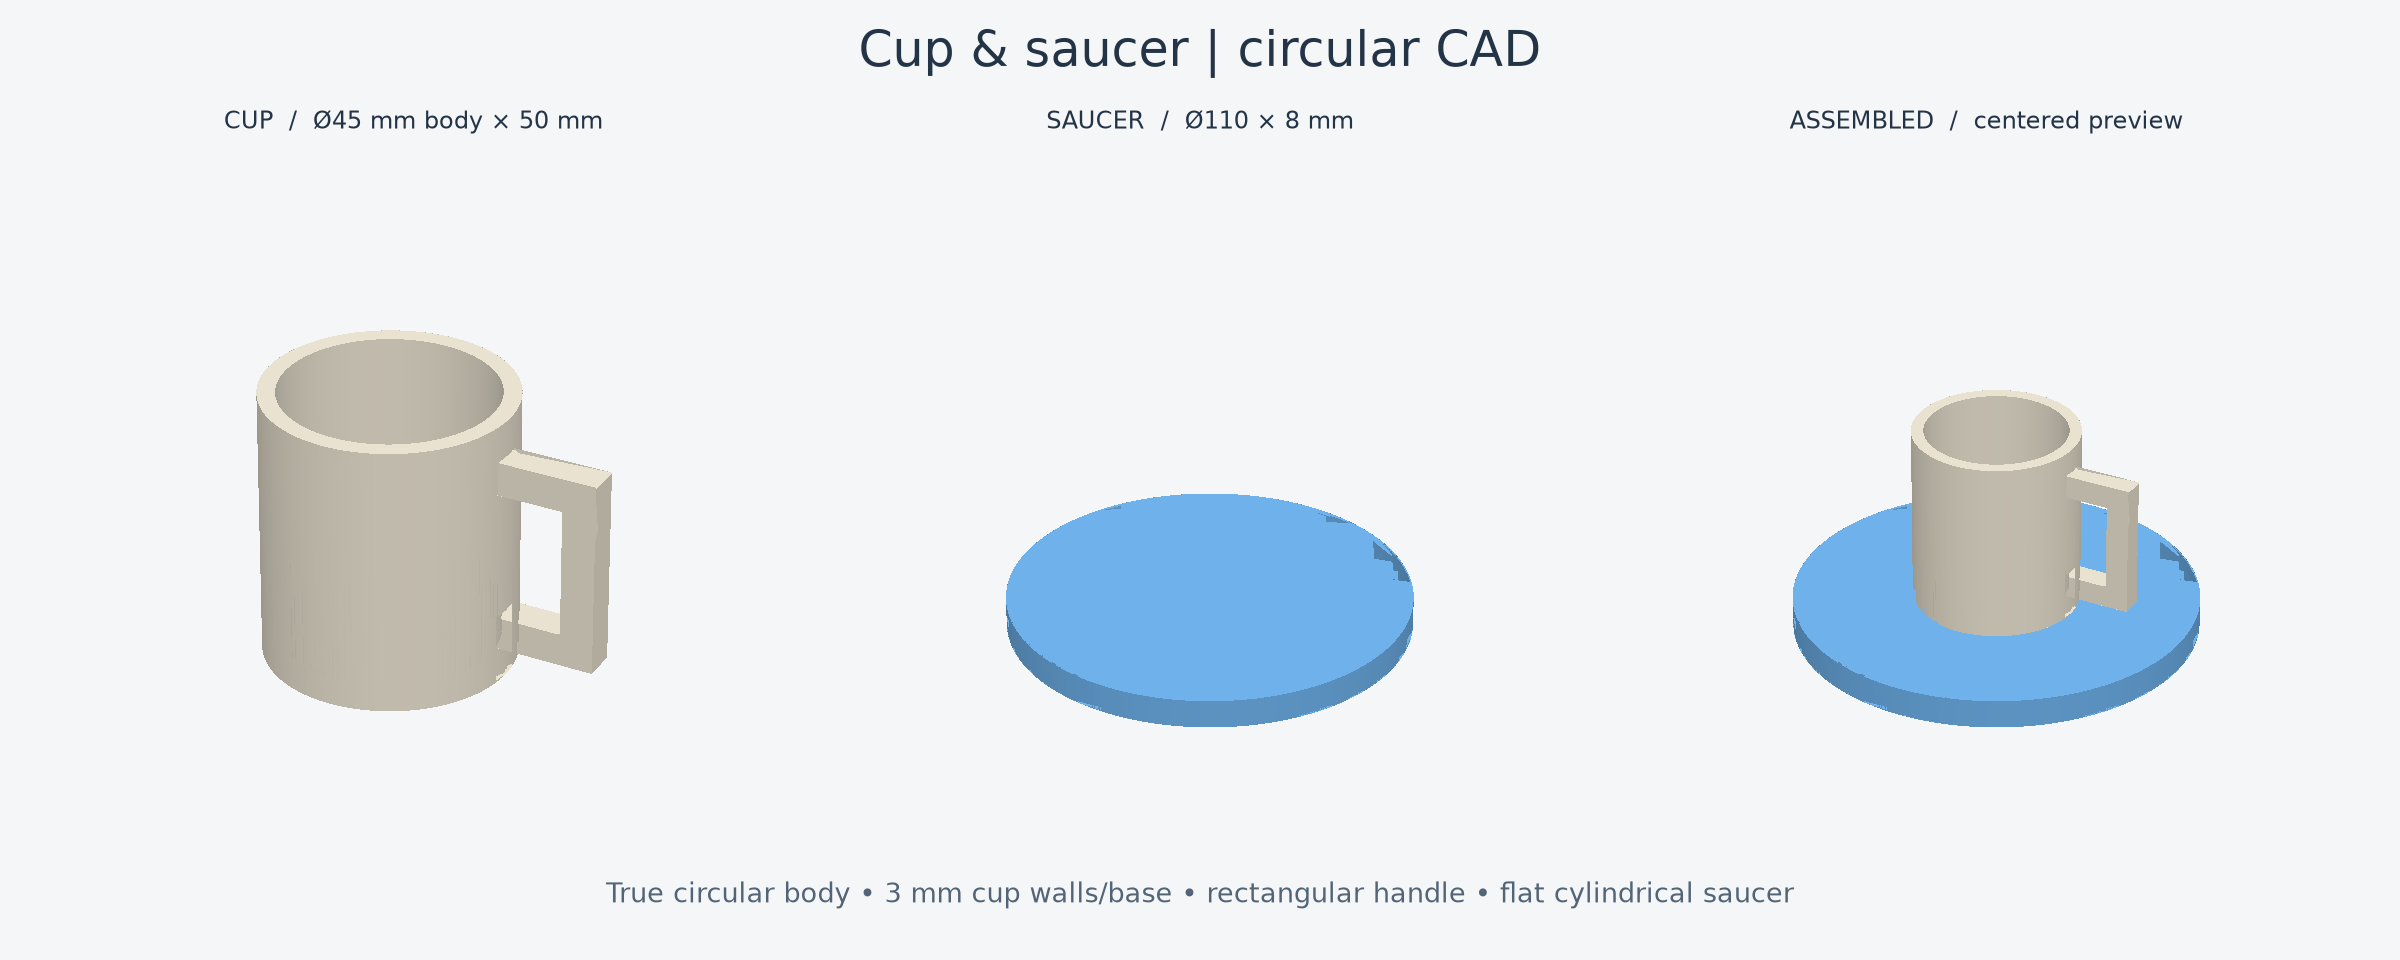
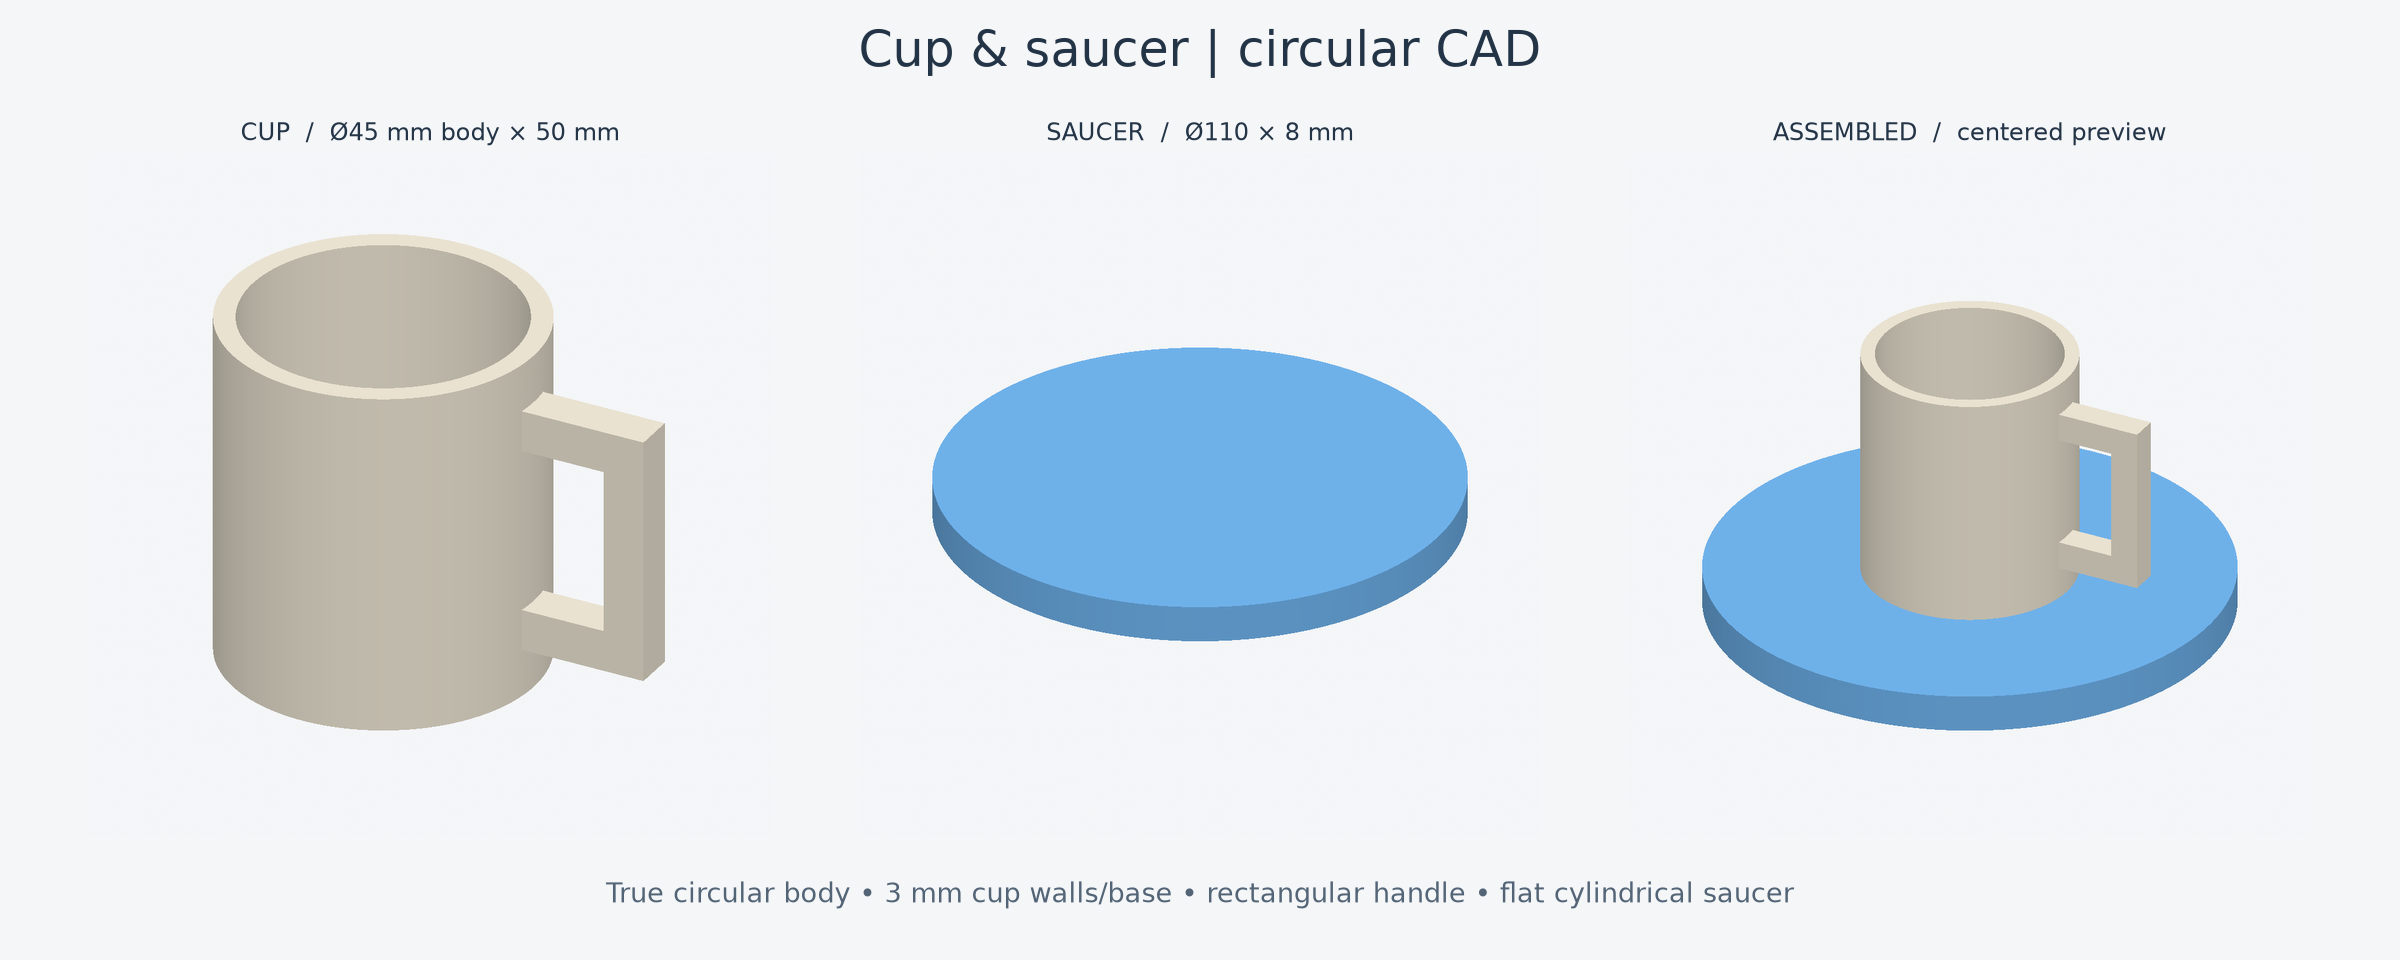
Fix CAD preview occlusion with per-pixel depth rendering

diff --git a/cad/cup_saucer/render.py b/cad/cup_saucer/render.py
@@ -1,0 +1,76 @@
+"""Render existing STEP files with per-pixel depth testing (no painter sorting)."""
+from pathlib import Path
+import cadquery as cq
+import numpy as np
+import matplotlib
+matplotlib.use('Agg')
+import matplotlib.pyplot as plt
+
+OUT = Path(__file__).resolve().parent
+BACKGROUND = np.array([244,246,248], dtype=float)/255
+
+
+def render_panel(items, span, target, size=1100):
+    """Orthographic triangle rasterizer with a shared z-buffer for all parts."""
+    az, el = np.deg2rad([-62,29])
+    toward = np.array([np.cos(el)*np.cos(az),np.cos(el)*np.sin(az),np.sin(el)])
+    right = np.array([-np.sin(az),np.cos(az),0])
+    up = np.cross(toward,right)
+    basis = np.stack([right,up,toward],axis=1)
+    pixels = np.broadcast_to(BACKGROUND,(size,size,3)).copy()
+    depth = np.full((size,size),-np.inf)
+    light = np.array([.25,-.35,.9027735])
+    for shape,color in items:
+        vertices,triangles=shape.tessellate(.02,.025)
+        world=np.array([v.toTuple() for v in vertices])
+        projected=(world-np.asarray(target))@basis
+        projected[:,:2]*=size/span
+        projected[:,0]+=size/2
+        projected[:,1]=size/2-projected[:,1]
+        for face in triangles:
+            a,b,c=projected[list(face)]
+            x0=max(0,int(np.floor(min(a[0],b[0],c[0]))))
+            x1=min(size-1,int(np.ceil(max(a[0],b[0],c[0]))))
+            y0=max(0,int(np.floor(min(a[1],b[1],c[1]))))
+            y1=min(size-1,int(np.ceil(max(a[1],b[1],c[1]))))
+            if x1<x0 or y1<y0: continue
+            denom=(b[1]-c[1])*(a[0]-c[0])+(c[0]-b[0])*(a[1]-c[1])
+            if abs(denom)<1e-12: continue
+            yy,xx=np.mgrid[y0:y1+1,x0:x1+1]
+            xx=xx+.5;yy=yy+.5
+            wa=((b[1]-c[1])*(xx-c[0])+(c[0]-b[0])*(yy-c[1]))/denom
+            wb=((c[1]-a[1])*(xx-c[0])+(a[0]-c[0])*(yy-c[1]))/denom
+            wc=1-wa-wb
+            z=wa*a[2]+wb*b[2]+wc*c[2]
+            region=depth[y0:y1+1,x0:x1+1]
+            mask=(wa>=-1e-9)&(wb>=-1e-9)&(wc>=-1e-9)&(z>region)
+            normal=np.cross(world[face[1]]-world[face[0]],world[face[2]]-world[face[0]])
+            normal/=max(np.linalg.norm(normal),1e-12)
+            brightness=.64+.36*abs(normal@light)
+            region[mask]=z[mask]
+            pixels[y0:y1+1,x0:x1+1][mask]=np.asarray(color)*brightness
+    return pixels
+
+
+def render():
+    cup=cq.importers.importStep(str(OUT/'cup.step')).val()
+    saucer=cq.importers.importStep(str(OUT/'saucer.step')).val()
+    cream=(.95,.92,.85);blue=(.45,.72,.95)
+    fig,axes=plt.subplots(1,3,figsize=(15,6),facecolor='#f4f6f8')
+    fig.suptitle('Cup & saucer | circular CAD',fontsize=22,color='#243447',y=.97)
+    panels=[
+        ('CUP  /  Ø45 mm body × 50 mm',[(cup,cream)],90,(7,0,25)),
+        ('SAUCER  /  Ø110 × 8 mm',[(saucer,blue)],140,(0,0,4)),
+        ('ASSEMBLED  /  centered preview',[(saucer,blue),(cup.translate((0,0,8)),cream)],140,(0,0,25)),
+    ]
+    for ax,(title,items,span,target) in zip(axes,panels):
+        ax.imshow(render_panel(items,span,target),interpolation='lanczos')
+        ax.set_axis_off();ax.set_title(title,fontsize=11,color='#243447')
+    fig.text(.5,.06,'True circular body • 3 mm cup walls/base • rectangular handle • flat cylindrical saucer',ha='center',fontsize=12,color='#526476')
+    fig.subplots_adjust(left=.025,right=.975,bottom=.13,top=.84,wspace=.04)
+    fig.savefig(OUT/'preview.png',dpi=160,facecolor=fig.get_facecolor())
+    plt.close(fig)
+
+
+if __name__ == '__main__':
+    render()

diff --git a/cad/cup_saucer/generate.py b/cad/cup_saucer/generate.py
@@ -7,11 +7,6 @@ import math
 import xml.etree.ElementTree as ET
 import cadquery as cq
 import yaml
-import matplotlib
-matplotlib.use('Agg')
-import matplotlib.pyplot as plt
-import numpy as np
-from mpl_toolkits.mplot3d.art3d import Poly3DCollection
 
 OUT = Path(__file__).resolve().parent
 ROOT = OUT.parents[1]
@@ -91,34 +86,7 @@ assembly.export(str(OUT/'cup_on_saucer.step'))
 assert len(cq.importers.importStep(str(OUT/'cup_on_saucer.step')).solids().vals()) == 2
 (OUT/'validation.json').write_text(json.dumps(report,indent=2)+'\n')
 
-# Render triangulated, reimported STEP geometry, not an illustrative substitute.
-fig = plt.figure(figsize=(15,6),facecolor='#f4f6f8')
-fig.suptitle('Cup & saucer | circular CAD',fontsize=22,color='#243447',y=.97)
-for i,(title,items,limits) in enumerate([
- ('CUP  /  Ø45 mm body × 50 mm',[('cup',(0,0,0))],(-34,47,-38,38,0,65)),
- ('SAUCER  /  Ø110 × 8 mm',[('saucer',(0,0,0))],(-65,65,-65,65,0,80)),
- ('ASSEMBLED  /  centered preview',[('saucer',(0,0,0)),('cup',(0,0,8))],(-65,65,-65,65,0,80))]):
-    ax=fig.add_subplot(1,3,i+1,projection='3d',computed_zorder=True)
-    ax.set_facecolor('#f4f6f8')
-    all_polys, all_colors = [], []
-    for name,shift in items:
-        verts,faces=loaded[name].translate(shift).tessellate(.02,.025)
-        polys=[[verts[j].toTuple() for j in face] for face in faces]
-        color=objs['espresso_cup' if name=='cup' else 'saucer']['color_rgba'][:3]
-        for tri in polys:
-            points = np.asarray(tri)
-            normal = np.cross(points[1]-points[0], points[2]-points[0])
-            normal /= max(np.linalg.norm(normal), 1e-12)
-            # Two-sided lighting handles STEP face winding consistently.
-            brightness = .64 + .36 * abs(np.dot(normal, np.array([.25,-.35,.9027735])))
-            all_polys.append(tri)
-            all_colors.append(np.asarray(color)*brightness)
-    ax.add_collection3d(Poly3DCollection(all_polys,facecolors=all_colors,linewidths=0,antialiased=False))
-    ax.set(xlim=limits[:2],ylim=limits[2:4],zlim=limits[4:])
-    ax.set_box_aspect((limits[1]-limits[0],limits[3]-limits[2],limits[5]-limits[4]))
-    ax.view_init(elev=29,azim=-62)
-    ax.set_axis_off();ax.set_title(title,fontsize=11,pad=1,color='#243447')
-fig.text(.5,.06,'True circular body • 3 mm cup walls/base • rectangular handle • flat cylindrical saucer',ha='center',fontsize=12,color='#526476')
-fig.subplots_adjust(left=.01,right=.99,bottom=.1,top=.86,wspace=.01)
-fig.savefig(OUT/'preview.png',dpi=160,facecolor=fig.get_facecolor())
+# Reuse the depth-tested renderer for the reimported STEP files.
+from render import render
+render()
 print(json.dumps(report['parts'],indent=2))

diff --git a/cad/cup_saucer/README.md b/cad/cup_saucer/README.md
@@ -62,3 +62,16 @@ modify a simulation. The script verifies solid validity, STEP reimport volume
 and bounding dimensions, and the assembly's two-solid count. The preview is
 rendered from the reimported STEP geometry. See the
 [CadQuery STEP documentation](https://cadquery.readthedocs.io/en/latest/importexport.html).
+
+### Render only
+
+To refresh the preview without rewriting the STEP files:
+
+```bash
+MPLCONFIGDIR=/tmp/cup-cad-mpl /tmp/cup-cad-env/bin/python cad/cup_saucer/render.py
+```
+
+The renderer uses orthographic projection with per-pixel depth testing across
+all parts. This removes triangle-order artifacts at silhouettes and contact
+edges. Geometry is tessellated directly from the STEP files; the CAD geometry
+is not edited to hide rendering defects.
